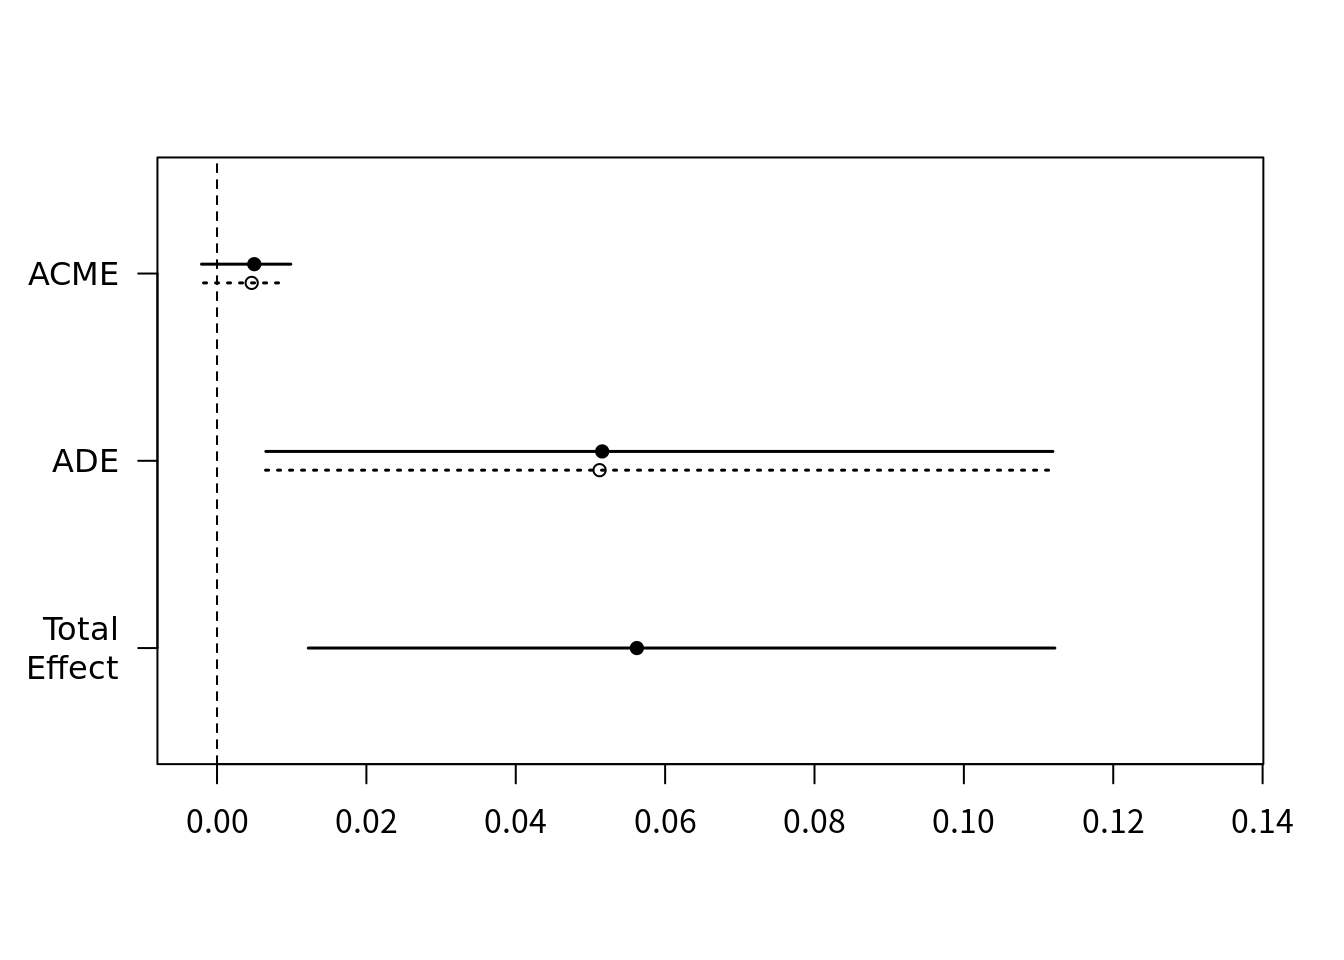
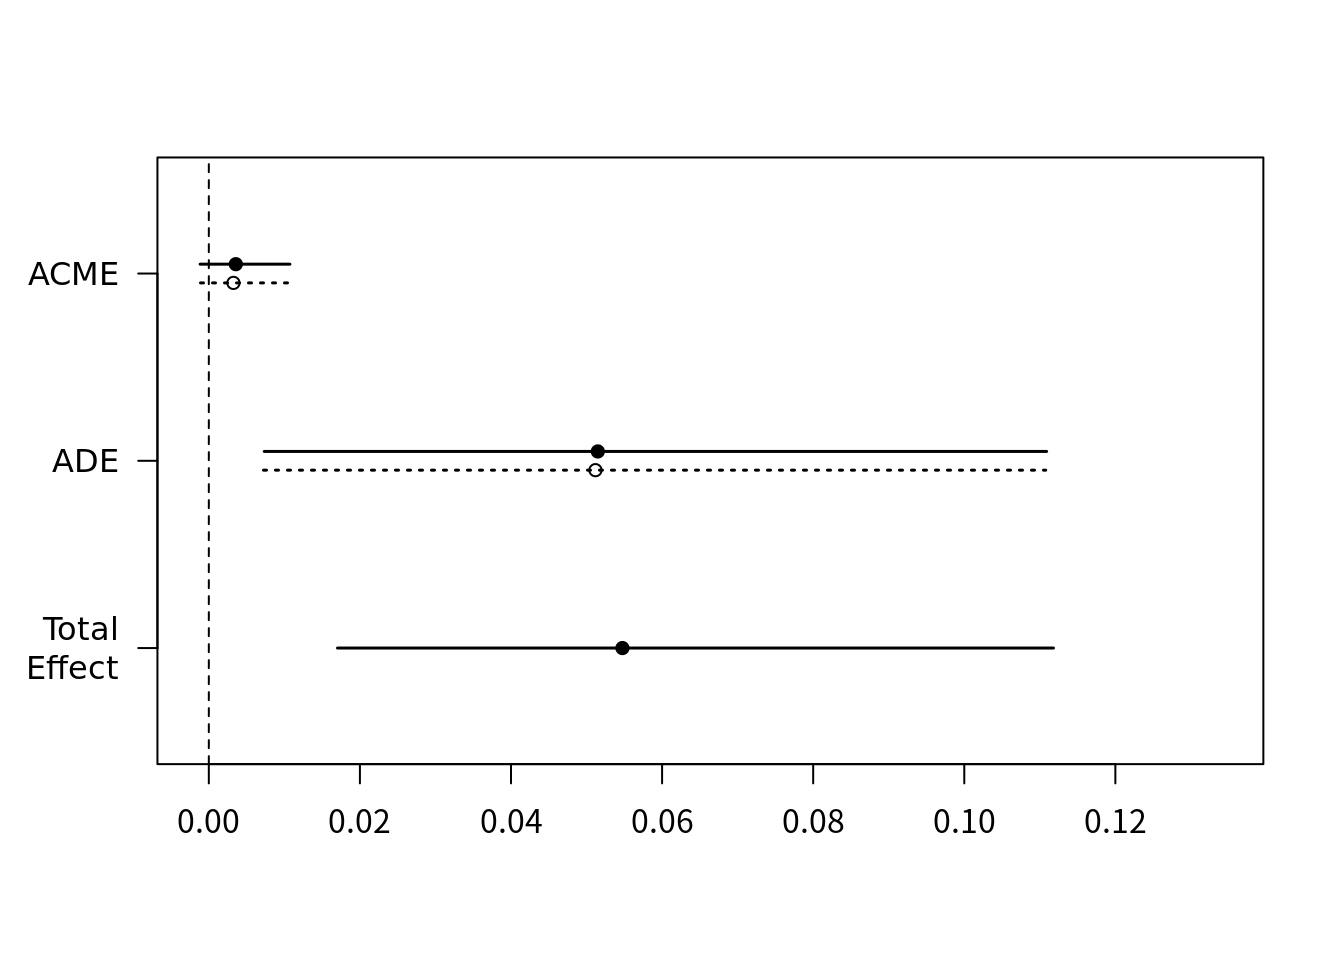
媒介分析2　更新

diff --git a/content/post/2021-02-25 Rによる因果媒介分析2/Rによる因果媒介分析2.html b/content/post/2021-02-25 Rによる因果媒介分析2/Rによる因果媒介分析2.html
@@ -29,15 +29,15 @@ coverCaption: "A short caption (Source: Source)"
 </div>
 
 <p>　今回は2値アウトカムに対する因果媒介分析を扱う。医学分野では解釈を容易にするため、カテゴリ化されたアウトカムを使用することが多い。カテゴリー変数をアウトカムとする場合、解析に使用するモデルもロジスティックやプロビットなどにする必要がある。前回と同様に解析と感度分析を行い、結果の解釈を行ってみる。</p>
-<p>　前回と同様jobsデータを使用。介入をtreat、媒介変数をjob_seek、アウトカムをdepress2（介入後の抑うつ症状：Hopkins Symptom Checklist）、交絡変数をecon_hard（経済的困難）・sex・ageとする。</p>
+<p>　前回と同様jobsデータを使用。介入をtreat（職業技能ワークショップへの参加）、連続媒介変数をjob_seek（就職活動自己効力感）、2値媒介変数をjob_cich（job_seekの値が4以上なら1、4未満なら0、として2値に変換）、アウトカムをwork1（ワークショップ参加後の就職）、交絡変数をecon_hard（経済的困難）・sex・ageとする。</p>
 <p>　まずはデータの読み込みから。</p>
 <pre class="r"><code>library(mediation)
 data(&quot;jobs&quot;)</code></pre>
 <div id="連続媒介変数-2値アウトカム" class="section level2">
 <h2>連続媒介変数 + 2値アウトカム</h2>
-<p>　媒介変数を応答変数とした重回帰分析を行う。これはBaron-Kenny法と同様。</p>
+<p>　連続媒介変数（就職活動自己効力感）を応答変数とした重回帰分析を行う。これはBaron-Kenny法と同様。</p>
 <pre class="r"><code>m.con &lt;- lm(job_seek ~ treat + econ_hard + sex + age, data=jobs)</code></pre>
-<p>　2値アウトカムwork1を応答変数、連続媒介変数job_seekと曝露変数treatを説明変数として、プロビット回帰を行う。glm関数を使用し、family引数でアウトカムに対して仮定する分布とリンク関数を指定できる（2値変数は2項分布に従うためbinomial、リンク関数はプロビット回帰）。</p>
+<p>　2値アウトカムwork1（ワークショップ後の就職）を応答変数、連続媒介変数job_seekと曝露変数treatを説明変数として、プロビット回帰を行う。glm関数を使用し、family引数でアウトカムに対して仮定する分布とリンク関数を指定できる（2値変数は2項分布に従うためbinomial、リンク関数はプロビット回帰）。</p>
 <pre class="r"><code>o.bin &lt;- glm(work1 ~ treat + job_seek + econ_hard + sex + age, 
                  family=binomial(link=&quot;probit&quot;),data=jobs)</code></pre>
 <pre class="r"><code>conbin &lt;- mediate(m.con, o.bin, sims=50, boot=TRUE,
@@ -49,19 +49,17 @@ data(&quot;jobs&quot;)</code></pre>
 ## 
 ## Nonparametric Bootstrap Confidence Intervals with the Percentile Method
 ## 
-##                           Estimate 95% CI Lower 95% CI Upper p-value  
-## ACME (control)            0.002656    -0.000435         0.01    0.24  
-## ACME (treated)            0.002857    -0.000477         0.01    0.24  
-## ADE (control)             0.054081     0.005939         0.13    0.04 *
-## ADE (treated)             0.054281     0.005959         0.13    0.04 *
-## Total Effect              0.056937     0.007831         0.13    0.04 *
-## Prop. Mediated (control)  0.046642    -0.007566         0.33    0.28  
-## Prop. Mediated (treated)  0.050171    -0.008331         0.34    0.28  
-## ACME (average)            0.002756    -0.000456         0.01    0.24  
-## ADE (average)             0.054181     0.005949         0.13    0.04 *
-## Prop. Mediated (average)  0.048406    -0.007948         0.34    0.28  
-## ---
-## Signif. codes:  0 &#39;***&#39; 0.001 &#39;**&#39; 0.01 &#39;*&#39; 0.05 &#39;.&#39; 0.1 &#39; &#39; 1
+##                          Estimate 95% CI Lower 95% CI Upper p-value
+## ACME (control)            0.00266     -0.00152         0.01    0.24
+## ACME (treated)            0.00287     -0.00164         0.01    0.24
+## ADE (control)             0.05425     -0.00893         0.11    0.16
+## ADE (treated)             0.05445     -0.00898         0.11    0.16
+## Total Effect              0.05711     -0.00534         0.12    0.12
+## Prop. Mediated (control)  0.04665     -0.61066         0.28    0.36
+## Prop. Mediated (treated)  0.05017     -0.60428         0.29    0.36
+## ACME (average)            0.00276     -0.00158         0.01    0.24
+## ADE (average)             0.05435     -0.00896         0.11    0.16
+## Prop. Mediated (average)  0.04841     -0.60747         0.28    0.36
 ## 
 ## Sample Size Used: 899 
 ## 
@@ -86,19 +84,17 @@ data(&quot;jobs&quot;)</code></pre>
 ## 
 ## Nonparametric Bootstrap Confidence Intervals with the Percentile Method
 ## 
-##                           Estimate 95% CI Lower 95% CI Upper p-value    
-## ACME (control)            0.004314    -0.001259         0.01    0.24    
-## ACME (treated)            0.004675    -0.001393         0.01    0.24    
-## ADE (control)             0.052207    -0.000406         0.11    0.08 .  
-## ADE (treated)             0.052568    -0.000413         0.11    0.08 .  
-## Total Effect              0.056882     0.011674         0.11  &lt;2e-16 ***
-## Prop. Mediated (control)  0.075838    -0.018736         1.30    0.24    
-## Prop. Mediated (treated)  0.082184    -0.020017         1.30    0.24    
-## ACME (average)            0.004494    -0.001326         0.01    0.24    
-## ADE (average)             0.052388    -0.000409         0.11    0.08 .  
-## Prop. Mediated (average)  0.079011    -0.019321         1.30    0.24    
-## ---
-## Signif. codes:  0 &#39;***&#39; 0.001 &#39;**&#39; 0.01 &#39;*&#39; 0.05 &#39;.&#39; 0.1 &#39; &#39; 1
+##                           Estimate 95% CI Lower 95% CI Upper p-value
+## ACME (control)            0.000603    -0.000180         0.01    0.12
+## ACME (treated)            0.000623    -0.000199         0.01    0.12
+## ADE (control)             0.052388    -0.007849         0.11    0.24
+## ADE (treated)             0.052408    -0.007904         0.11    0.24
+## Total Effect              0.053010    -0.002934         0.12    0.12
+## Prop. Mediated (control)  0.011366    -1.015296         3.22    0.24
+## Prop. Mediated (treated)  0.011747    -1.003862         3.21    0.24
+## ACME (average)            0.000613    -0.000187         0.01    0.12
+## ADE (average)             0.052398    -0.007876         0.11    0.24
+## Prop. Mediated (average)  0.011557    -1.009579         3.21    0.24
 ## 
 ## Sample Size Used: 899 
 ## 
@@ -106,6 +102,7 @@ data(&quot;jobs&quot;)</code></pre>
 ## Simulations: 50</code></pre>
 <pre class="r"><code>plot(binbin)</code></pre>
 <p><img src="/post/2021-02-25 Rによる因果媒介分析2/R%E3%81%AB%E3%82%88%E3%82%8B%E5%9B%A0%E6%9E%9C%E5%AA%92%E4%BB%8B%E5%88%86%E6%9E%902_files/figure-html/unnamed-chunk-7-1.png" width="672" /></p>
+<p>一応ロジスティックモデルも実行してみた。</p>
 <pre class="r"><code>m.binl &lt;- glm(job_dich ~ treat + econ_hard + sex + age, 
                  family=binomial(link=&quot;logit&quot;),data=jobs)</code></pre>
 <pre class="r"><code>o.binl &lt;- glm(work1 ~ treat + job_dich + econ_hard + sex + age, 
@@ -120,16 +117,16 @@ data(&quot;jobs&quot;)</code></pre>
 ## Nonparametric Bootstrap Confidence Intervals with the Percentile Method
 ## 
 ##                          Estimate 95% CI Lower 95% CI Upper p-value  
-## ACME (control)            0.00464     -0.00180         0.01    0.20  
-## ACME (treated)            0.00499     -0.00208         0.01    0.20  
-## ADE (control)             0.05123      0.00650         0.11    0.04 *
-## ADE (treated)             0.05157      0.00654         0.11    0.04 *
-## Total Effect              0.05621      0.01222         0.11    0.04 *
-## Prop. Mediated (control)  0.08258     -0.02508         0.27    0.24  
-## Prop. Mediated (treated)  0.08874     -0.02841         0.28    0.24  
-## ACME (average)            0.00482     -0.00196         0.01    0.20  
-## ADE (average)             0.05140      0.00652         0.11    0.04 *
-## Prop. Mediated (average)  0.08566     -0.02675         0.27    0.24  
+## ACME (control)            0.00326     -0.00110         0.01    0.16  
+## ACME (treated)            0.00357     -0.00115         0.01    0.16  
+## ADE (control)             0.05118      0.00723         0.11    0.04 *
+## ADE (treated)             0.05149      0.00734         0.11    0.04 *
+## Total Effect              0.05475      0.01703         0.11    0.04 *
+## Prop. Mediated (control)  0.05952     -0.02837         0.50    0.20  
+## Prop. Mediated (treated)  0.06524     -0.02971         0.50    0.20  
+## ACME (average)            0.00342     -0.00113         0.01    0.16  
+## ADE (average)             0.05134      0.00729         0.11    0.04 *
+## Prop. Mediated (average)  0.06238     -0.02904         0.50    0.20  
 ## ---
 ## Signif. codes:  0 &#39;***&#39; 0.001 &#39;**&#39; 0.01 &#39;*&#39; 0.05 &#39;.&#39; 0.1 &#39; &#39; 1
 ## 
@@ -139,6 +136,7 @@ data(&quot;jobs&quot;)</code></pre>
 ## Simulations: 50</code></pre>
 <pre class="r"><code>plot(binbinl)</code></pre>
 <p><img src="/post/2021-02-25 Rによる因果媒介分析2/R%E3%81%AB%E3%82%88%E3%82%8B%E5%9B%A0%E6%9E%9C%E5%AA%92%E4%BB%8B%E5%88%86%E6%9E%902_files/figure-html/unnamed-chunk-10-1.png" width="672" /></p>
+<p>プロビット、ロジスティックモデルでの結果を見ると、平均因果媒介効果(ACME)の点推定値と信頼区間が正の大部分を被覆している。したがってワークショップは参加者の自己効力感を増し、就職につながった可能性があることがわかった。ただ前回と同様、これだけでは未測定交絡の問題や交互作用についても考慮する必要がある。</p>
 </div>
 <div id="解析可能な媒介変数アウトカムの組み合わせ" class="section level2">
 <h2>解析可能な媒介変数・アウトカムの組み合わせ</h2>
